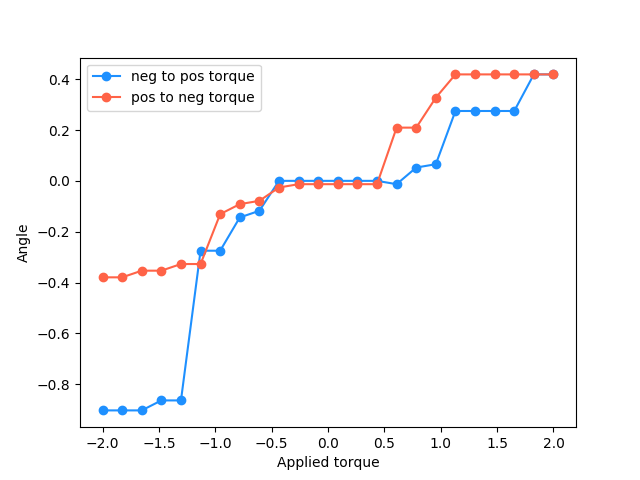
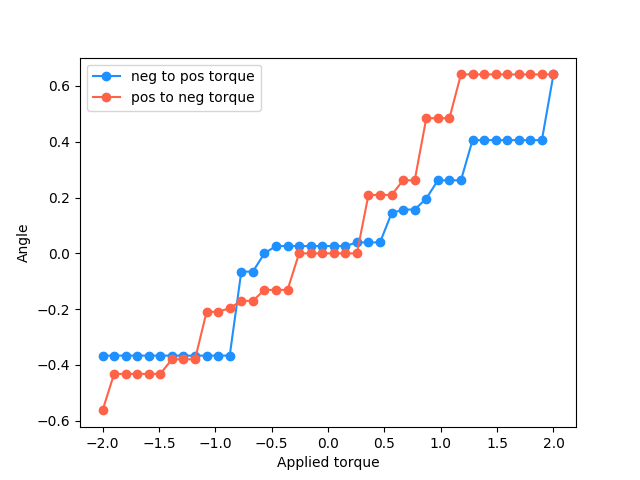
added plot scripts

diff --git a/plot_hysteresis.py b/plot_hysteresis.py
@@ -1,9 +1,14 @@
 import numpy as np
 import matplotlib.pyplot as plt
 
-torques =  [-2.0, -1.8260869565217392, -1.6521739130434783, -1.4782608695652173, -1.3043478260869565, -1.1304347826086958, -0.9565217391304348, -0.7826086956521738, -0.6086956521739131, -0.43478260869565233, -0.26086956521739135, -0.08695652173913038, 0.08695652173913038, 0.26086956521739113, 0.43478260869565233, 0.6086956521739131, 0.7826086956521738, 0.9565217391304346, 1.1304347826086953, 1.3043478260869565, 1.4782608695652173, 1.652173913043478, 1.8260869565217392, 2.0, 2.0, 1.8260869565217392, 1.6521739130434783, 1.4782608695652173, 1.3043478260869565, 1.1304347826086958, 0.9565217391304348, 0.7826086956521738, 0.6086956521739131, 0.43478260869565233, 0.26086956521739135, 0.08695652173913038, -0.08695652173913038, -0.26086956521739113, -0.43478260869565233, -0.6086956521739131, -0.7826086956521738, -0.9565217391304346, -1.1304347826086953, -1.3043478260869565, -1.4782608695652173, -1.652173913043478, -1.8260869565217392, -2.0]
-xs =  [0.6190939493098341, 0.6190939493098341, 0.6190939493098341, 0.6494480483301835, 0.6494480483301835, 0.9624552364536473, 0.9624552364536473, 0.9896513868196702, 0.9930684569549263, 1.0, 1.0, 1.0, 1.0, 1.0, 1.0, 0.999914327574007, 0.9986295347545738, 0.9978589232386035, 0.9624552364536473, 0.9624552364536473, 0.9624552364536473, 0.9624552364536473, 0.9135454576426009, 0.9135454576426009, 0.9135454576426009, 0.9135454576426009, 0.9135454576426009, 0.9135454576426009, 0.9135454576426009, 0.9135454576426009, 0.9469301294951057, 0.9781476007338057, 0.9781476007338057, 0.999914327574007, 0.999914327574007, 0.999914327574007, 0.999914327574007, 0.999914327574007, 0.9996573249755573, 0.996917333733128, 0.9958049275746618, 0.9914448613738104, 0.9469301294951057, 0.9469301294951057, 0.9381913359224842, 0.9381913359224842, 0.9288095528719242, 0.9288095528719242]
-ys =  [-0.7853169308807448, -0.7853169308807448, -0.7853169308807448, -0.760405965600031, -0.760405965600031, -0.27144044986507426, -0.27144044986507426, -0.1434926219911793, -0.11753739745783764, 0.0, 0.0, 0.0, 0.0, 0.0, 0.0, -0.01308959557134444, 0.05233595624294383, 0.06540312923014306, 0.27144044986507426, 0.27144044986507426, 0.27144044986507426, 0.27144044986507426, 0.40673664307580015, 0.40673664307580015, 0.40673664307580015, 0.40673664307580015, 0.40673664307580015, 0.40673664307580015, 0.40673664307580015, 0.40673664307580015, 0.3214394653031616, 0.20791169081775931, 0.20791169081775931, -0.01308959557134444, -0.01308959557134444, -0.01308959557134444, -0.01308959557134444, -0.01308959557134444, -0.02617694830787315, -0.07845909572784494, -0.09150161866340238, -0.13052619222005157, -0.3214394653031616, -0.3214394653031616, -0.34611705707749296, -0.34611705707749296, -0.3705574375098362, -0.3705574375098362]
+torques =  [-2.0, -1.8974358974358974, -1.794871794871795, -1.6923076923076923, -1.5897435897435899, -1.4871794871794872, -1.3846153846153846, -1.282051282051282, -1.1794871794871795, -1.076923076923077, -0.9743589743589745, -0.8717948717948718, -0.7692307692307692, -0.6666666666666667, -0.5641025641025641, -0.4615384615384617, -0.35897435897435903, -0.2564102564102564, -0.15384615384615397, -0.05128205128205132, 0.0512820512820511, 0.15384615384615374, 0.2564102564102564, 0.35897435897435903, 0.4615384615384617, 0.5641025641025639, 0.6666666666666665, 0.7692307692307692, 0.8717948717948718, 0.9743589743589745, 1.0769230769230766, 1.1794871794871793, 1.282051282051282, 1.3846153846153846, 1.4871794871794872, 1.5897435897435894, 1.692307692307692, 1.7948717948717947, 1.8974358974358974, 2.0, 2.0, 1.8974358974358974, 1.794871794871795, 1.6923076923076923, 1.5897435897435899, 1.4871794871794872, 1.3846153846153846, 1.282051282051282, 1.1794871794871795, 1.076923076923077, 0.9743589743589745, 0.8717948717948718, 0.7692307692307692, 0.6666666666666667, 0.5641025641025641, 0.4615384615384617, 0.35897435897435903, 0.2564102564102564, 0.15384615384615397, 0.05128205128205132, -0.0512820512820511, -0.15384615384615374, -0.2564102564102564, -0.35897435897435903, -0.4615384615384617, -0.5641025641025639, -0.6666666666666665, -0.7692307692307692, -0.8717948717948718, -0.9743589743589745, -1.0769230769230766, -1.1794871794871793, -1.282051282051282, -1.3846153846153846, -1.4871794871794872, -1.5897435897435894, -1.692307692307692, -1.7948717948717947, -1.8974358974358974, -2.0]
+xs =  [0.9335804264972017, 0.9335804264972017, 0.9335804264972017, 0.9335804264972017, 0.9335804264972017, 0.9335804264972017, 0.9335804264972017, 0.9335804264972017, 0.9335804264972017, 0.9335804264972017, 0.9335804264972017, 0.9335804264972017, 0.9978589232386035, 0.9978589232386035, 1.0, 0.9996573249755573, 0.9996573249755573, 0.9996573249755573, 0.9996573249755573, 0.9996573249755573, 0.9996573249755573, 0.9996573249755573, 0.9992290362407229, 0.9992290362407229, 0.9992290362407229, 0.9896513868196702, 0.9876883405951378, 0.9876883405951378, 0.9807852804032304, 0.9659258262890683, 0.9659258262890683, 0.9659258262890683, 0.9187912101488983, 0.9187912101488983, 0.9187912101488983, 0.9187912101488983, 0.9187912101488983, 0.9187912101488983, 0.9187912101488983, 0.8012538126910607, 0.8012538126910607, 0.8012538126910607, 0.8012538126910607, 0.8012538126910607, 0.8012538126910607, 0.8012538126910607, 0.8012538126910607, 0.8012538126910607, 0.8012538126910607, 0.8849876374630419, 0.8849876374630419, 0.8849876374630419, 0.9659258262890683, 0.9659258262890683, 0.9781476007338057, 0.9781476007338057, 0.9781476007338057, 1.0, 1.0, 1.0, 1.0, 1.0, 1.0, 0.9914448613738104, 0.9914448613738104, 0.9914448613738104, 0.9855560590580777, 0.9855560590580777, 0.9807852804032304, 0.9781476007338057, 0.9781476007338057, 0.9288095528719242, 0.9288095528719242, 0.9288095528719242, 0.9081431738250813, 0.9081431738250813, 0.9081431738250813, 0.9081431738250813, 0.9081431738250813, 0.8457278217039733]
+ys =  [-0.35836794954530027, -0.35836794954530027, -0.35836794954530027, -0.35836794954530027, -0.35836794954530027, -0.35836794954530027, -0.35836794954530027, -0.35836794954530027, -0.35836794954530027, -0.35836794954530027, -0.35836794954530027, -0.35836794954530027, -0.06540312923014306, -0.06540312923014306, 0.0, 0.02617694830787315, 0.02617694830787315, 0.02617694830787315, 0.02617694830787315, 0.02617694830787315, 0.02617694830787315, 0.02617694830787315, 0.03925981575906861, 0.03925981575906861, 0.03925981575906861, 0.1434926219911793, 0.15643446504023087, 0.15643446504023087, 0.19509032201612825, 0.25881904510252074, 0.25881904510252074, 0.25881904510252074, 0.39474385638426723, 0.39474385638426723, 0.39474385638426723, 0.39474385638426723, 0.39474385638426723, 0.39474385638426723, 0.39474385638426723, 0.598324600570659, 0.598324600570659, 0.598324600570659, 0.598324600570659, 0.598324600570659, 0.598324600570659, 0.598324600570659, 0.598324600570659, 0.598324600570659, 0.598324600570659, 0.4656145203251114, 0.4656145203251114, 0.4656145203251114, 0.25881904510252074, 0.25881904510252074, 0.20791169081775931, 0.20791169081775931, 0.20791169081775931, 0.0, 0.0, 0.0, 0.0, 0.0, 0.0, -0.13052619222005157, -0.13052619222005157, -0.13052619222005157, -0.1693495038490246, -0.1693495038490246, -0.19509032201612825, -0.20791169081775931, -0.20791169081775931, -0.3705574375098362, -0.3705574375098362, -0.3705574375098362, -0.41865973753742813, -0.41865973753742813, -0.41865973753742813, -0.41865973753742813, -0.41865973753742813, -0.5336145159156115]
+
+
+
+
+
 
 xs = np.array(xs)
 ys = np.array(ys)

diff --git a/const_tests.py b/const_tests.py
@@ -13,12 +13,16 @@ obs = []
 pause_time = 2.0
 reset_time = 2.0
 
-torques = np.linspace(-2, 2, 24).tolist() + np.linspace(2, -2, 24).tolist()
+n_pts = 40
+
+torques = np.linspace(-2, 2, n_pts).tolist() + np.linspace(2, -2, n_pts).tolist()
 
 xs = []
 ys = []
 
 try:
+
+    print('\nGetting to top position...\n')
 
     for t in np.linspace(0, -2, 10):
 
@@ -27,12 +31,14 @@ try:
             time.sleep(0.15)
             x, y, thetadot = env._get_obs()
 
-            if (time.time() - start_time) >= 0.5:
+            if (time.time() - start_time) >= pause_time:
                 break
 
         print(f'\nApplying torque = {t:.2f}')
         _, _, _, _ = env.step([t])
 
+
+    print('\nDoing real torque tests...\n')
 
     for t in torques:
 
@@ -53,6 +59,7 @@ try:
         ys.append(y)
 
         print('\nFinal:\n\n x = {:.3f},\t y = {:.3f},\t thetadot = {:.3f}'.format(x, y, thetadot))
+        print('Angle = {:.3f}'.format(np.arctan2(y, x)))
 
 
 
